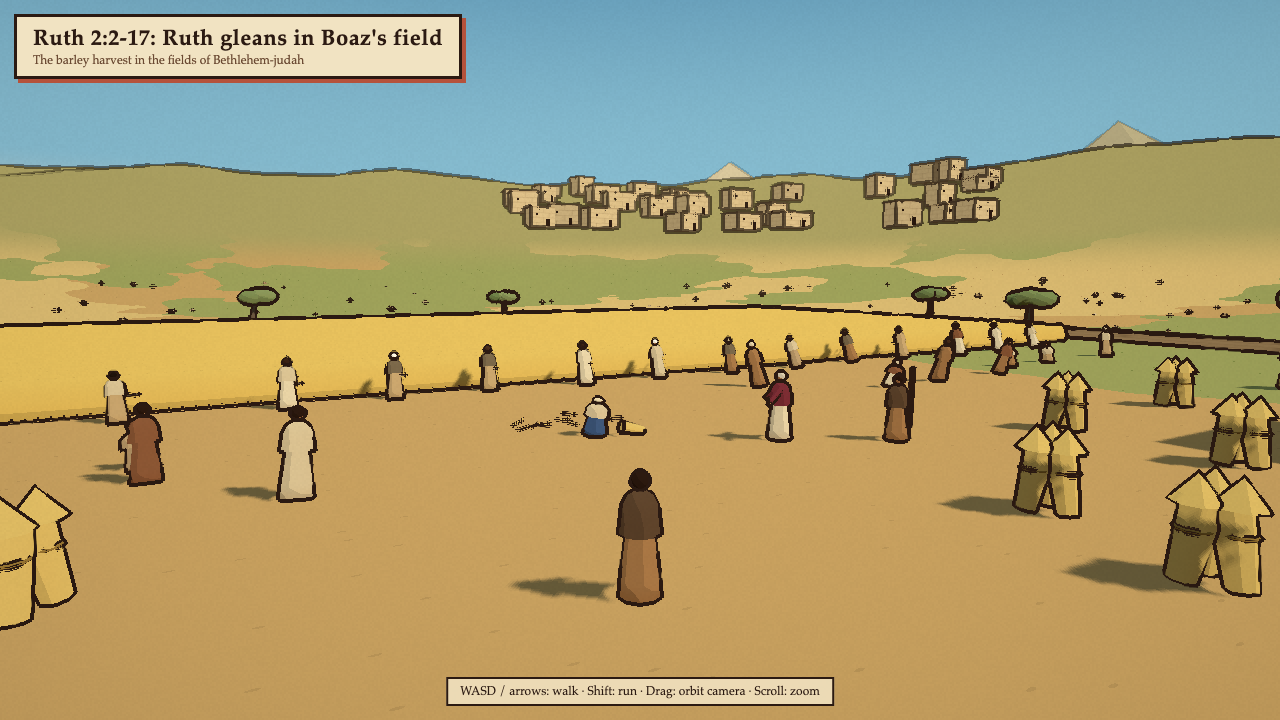
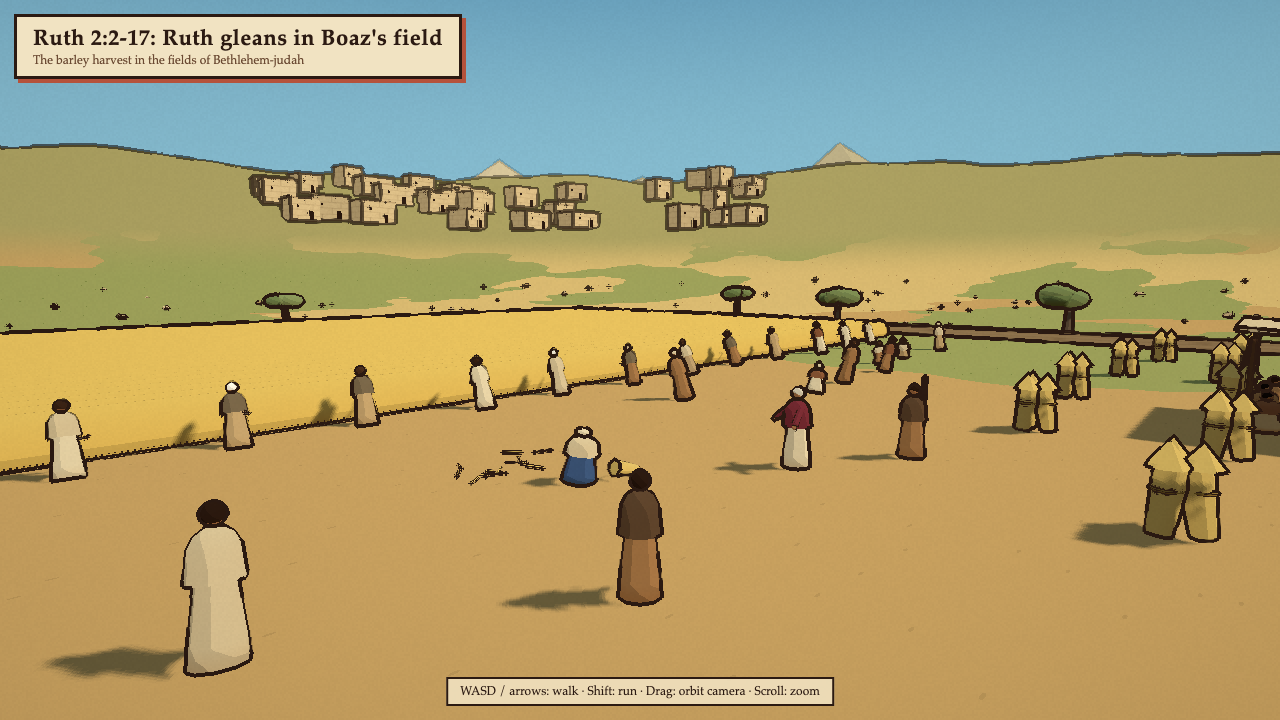
feat: polish toon scenes ot-25 to ot-30

Changed region(s): [[0.0, 0.1528, 1.0, 0.9472], [0.375, 0.7639, 0.5, 0.8556]]

diff --git a/styles/toon/scenes/ot-25.js b/styles/toon/scenes/ot-25.js
@@ -5,7 +5,8 @@ import { ISRAEL, NO_PLAZA, camels, campfires, figure, flames, longTents, merged,
 import { makeRng } from '../engine/util.js';
 
 const CAMP = [0, 0];
-const START = [-24, 41];
+const START = [-6, 47];
+const GIDEON = [-2.5, 42.6];
 
 const MIDIAN = {
   robes: ['#5a3a5a', '#3e2e4a', '#6b3a2a', '#2e3a4a', '#7a5a3a', '#4a2a2a', '#8a6a4a'],
@@ -50,9 +51,9 @@ export default {
 
   sun: {
     dir: [0.5, 0.7, -0.6],
-    color: '#8ea2e0',
-    intensity: 1.1,
-    hemi: { sky: '#3a4a86', ground: '#1e1a2a', intensity: 0.75 },
+    color: '#9eb2ee',
+    intensity: 1.3,
+    hemi: { sky: '#4c5ea6', ground: '#3a2e3a', intensity: 1.05 },
     shadowSize: 70,
   },
 
@@ -64,7 +65,7 @@ export default {
     undulation: 0.3,
     plaza: NO_PLAZA,
     colors: {
-      sand: '#4a4660', dirt: '#3e3a52', grass: '#32424e', grassDark: '#26343e', plaza: '#4a4660', plazaLine: '#4a4660',
+      sand: '#5a5470', dirt: '#4a4460', grass: '#3a4a58', grassDark: '#2e3c48', plaza: '#5a5470', plazaLine: '#5a5470',
       scorch: '#1a1620', scorchEdge: '#2a2430', hill: '#2c3a4c',
     },
   },
@@ -84,7 +85,7 @@ export default {
     const tentList = [], longList = [], camelList = [], fires = [];
     for (let i = 0; i < 9; i++) {
       const a = (i / 9) * Math.PI * 2 + 0.3, r = 14 + (i % 3) * 7;
-      fires.push({ pos: [Math.sin(a) * r, Math.cos(a) * r], size: 0.9, light: i % 2 === 0 ? 14 : 0, lightDistance: 16 });
+      fires.push({ pos: [Math.sin(a) * r, Math.cos(a) * r], size: 1.1, light: 20, lightDistance: 24 });
     }
     for (let i = 0; i < 70; i++) {
       const a = rng() * Math.PI * 2, r = 6 + Math.sqrt(rng()) * 32;
@@ -149,9 +150,9 @@ export default {
     }
 
     // Gideon at the front of his company, crying "The sword of the Lord, and of Gideon."
-    figure(ctx, { pos: [1.5, 46.5], facing: CAMP, pose: 'raise', colors: { robe: '#8c5a3c', mantle: '#5e4632', skin: '#a87650', hair: '#2b1a12', sash: '#c8912e', arms: [0.5, 2.7] } });
-    flames(ctx, [{ pos: [1.5 + 0.55, ctx.terrainHeight(1.5, 46.5) + 3.0, 46.5 - 0.2], size: 0.7 }], { glowSize: 3.5 });
-    pointLight(ctx, [1.5, 4, 46], { color: '#ffaa55', intensity: 14, distance: 14 });
+    figure(ctx, { pos: GIDEON, facing: CAMP, scale: 1.05, pose: 'raise', colors: { robe: '#8c5a3c', mantle: '#5e4632', skin: '#a87650', hair: '#2b1a12', sash: '#c8912e', arms: [0.5, 2.7] } });
+    flames(ctx, [{ pos: [GIDEON[0] + 0.55, ctx.terrainHeight(...GIDEON) + 3.1, GIDEON[1] - 0.2], size: 0.7 }], { glowSize: 3.5 });
+    pointLight(ctx, [GIDEON[0] + 0.5, 3.6, GIDEON[1] + 0.6], { color: '#ffaa55', intensity: 18, distance: 14 });
   },
 
   crowd: {
@@ -168,7 +169,7 @@ export default {
 
   player: {
     start: START,
-    lookAt: [6, -4],
+    lookAt: [4, 0],
     colors: { robe: '#7a6a52', mantle: '#3a2a22', skin: '#a8724a', hair: '#2b1a12', sash: '#c8912e' },
   },
 };

diff --git a/styles/toon/scenes/ot-30.js b/styles/toon/scenes/ot-30.js
@@ -175,7 +175,7 @@ export default {
     // Solomon on the brasen scaffold, spreading forth his hands toward heaven.
     boxes(ctx, [{ size: [2.8, 1.5, 2.8], pos: SCAFFOLD, y: y0, color: C.bronze }]);
     const solY = y0 + 1.5;
-    const sol = figure(ctx, { pos: SCAFFOLD, y: solY, yaw: Math.PI, scale: 1.1, pose: 'raise', clear: 0,
+    const sol = figure(ctx, { pos: SCAFFOLD, y: solY, yaw: Math.PI, scale: 1.35, pose: 'raise', clear: 0,
       colors: { robe: '#5e2a6a', mantle: '#e0b040', skin: '#b5825a', hair: '#3a2418', sash: '#e0b040', arms: [0.75, 2.5] } });
     const crown = new THREE.Mesh(new THREE.CylinderGeometry(0.13, 0.14, 0.12, 10, 1, true), ctx.kit.toon(C.gold, { side: THREE.DoubleSide }));
     crown.position.y = 1.72;
@@ -200,8 +200,8 @@ export default {
 
     // The cloud of glory filling the house and billowing out of the porch.
     puffs(ctx, { center: [0, y0 + TERRACE + 1.2, PORCH_Z + 0.8], radius: [2.6, 0.8, 0.8], count: 9, size: [0.6, 1.2], color: '#fffaf0', emissive: '#d8ccb0', drift: 0.18, seed: 21 });
-    puffs(ctx, { center: [0, y0 + TERRACE + 19, -36], radius: [8, 2.5, 16], count: 30, size: [3, 5.5], color: '#fffaf0', emissive: '#d8ccb0', drift: 0.12, seed: 22 });
-    puffs(ctx, { center: [0, y0 + TERRACE + 24, PORCH_Z - 4], radius: [6, 2.5, 3], count: 10, size: [2.4, 4], color: '#fffaf0', emissive: '#d8ccb0', drift: 0.15, seed: 23 });
+    puffs(ctx, { center: [0, y0 + TERRACE + 17.5, -36], radius: [8, 2.5, 16], count: 30, size: [3, 5.5], color: '#fffaf0', emissive: '#d8ccb0', drift: 0.12, seed: 22 });
+    puffs(ctx, { center: [0, y0 + TERRACE + 18, PORCH_Z - 4], radius: [6, 2, 3], count: 10, size: [2.4, 4], color: '#fffaf0', emissive: '#d8ccb0', drift: 0.15, seed: 23 });
     glowSprite(ctx, { pos: [0, y0 + TERRACE + 4.5, PORCH_Z + 0.5], size: 12, color: '#fff2c8', opacity: 0.7, pulse: 0.05 });
     glowSprite(ctx, { pos: [0, y0 + 20, -32], size: 60, color: '#fff2c8', opacity: 0.4, pulse: 0.03 });
     shaft(ctx, { from: [0, 180, -40], to: [0, y0 + 16, -34], width: [10, 16], color: '#fff2c9', opacity: 0.12 });
@@ -232,6 +232,7 @@ export default {
   player: {
     start: [0, 27],
     lookAt: [0, -10],
+    fov: 58,
     colors: { robe: '#4f7f80', mantle: '#8c5a3c', skin: '#a8724a', hair: '#2b1a12', sash: '#c8912e' },
   },
 };

diff --git a/styles/toon/scenes/ot-28.js b/styles/toon/scenes/ot-28.js
@@ -7,8 +7,8 @@ import { makeRng } from '../engine/util.js';
 const TENT = { x: [-5.5, 5.5], z: [-15, 4], h: 5.6 };
 const VEIL_Z = -9.5;
 const LAMP = [-3.3, -4.5];
-const SAMUEL = [-0.4, -1.8];
-const PRESENCE = [1.6, -3.4];
+const SAMUEL = [-2.3, -1.2];
+const PRESENCE = [0.6, -4.0];
 const ELI = [12, -5];
 
 const C = {
@@ -163,12 +163,12 @@ export default {
 
     // Samuel lying on his mat, and the Lord standing near, a still light with no form to see.
     boxes(ctx, [{ size: [1.0, 0.12, 2.2], pos: [SAMUEL[0], SAMUEL[1] - 0.4], y: y0 + 0.22, color: '#8c5a3c', collide: false, exclude: false }]);
-    figure(ctx, { pos: SAMUEL, y: y0 + 0.3, yaw: Math.PI, pose: 'lie', roll: 0.35, scale: 0.82, colors: { robe: '#e6d8b8', mantle: '#d9c7a3', skin: '#c08f66', hair: '#3a2418', sash: '#4f7f80' }, clear: 1.4 });
+    figure(ctx, { pos: SAMUEL, y: y0 + 0.3, yaw: Math.PI, pose: 'lie', roll: 0.35, scale: 0.95, colors: { robe: '#e6d8b8', mantle: '#d9c7a3', skin: '#c08f66', hair: '#3a2418', sash: '#4f7f80' }, clear: 1.4 });
     const py = y0 + 0.2;
     shaft(ctx, { from: [PRESENCE[0], py + H + 0.4, PRESENCE[1]], to: [PRESENCE[0], py, PRESENCE[1]], width: [0.5, 0.9], color: '#fff4dc', opacity: 0.18 });
     glowSprite(ctx, { pos: [PRESENCE[0], py + 1.3, PRESENCE[1]], size: 3.4, color: '#fff4dc', opacity: 0.9, pulse: 0.05 });
     glowSprite(ctx, { pos: [PRESENCE[0], py + 1.2, PRESENCE[1]], size: 7, color: '#d8e4ff', opacity: 0.35, pulse: 0.03 });
-    pointLight(ctx, [PRESENCE[0], py + 1.8, PRESENCE[1]], { color: '#e8eeff', intensity: 10, distance: 9 });
+    pointLight(ctx, [PRESENCE[0], py + 1.8, PRESENCE[1]], { color: '#e8eeff', intensity: 16, distance: 10 });
     ctx.exclude({ kind: 'circle', x: PRESENCE[0], z: PRESENCE[1], r: 1 });
 
     // The altar of burnt offering, its fire banked low, and the laver.
@@ -212,8 +212,8 @@ export default {
   },
 
   player: {
-    start: [0.9, 7.5],
-    lookAt: [0.4, -3],
+    start: [0.4, 2.0],
+    lookAt: [-0.8, -5],
     colors: { robe: '#6f8a6a', mantle: '#4a3a30', skin: '#a8724a', hair: '#2b1a12', sash: '#c8912e' },
   },
 };

diff --git a/styles/toon/scenes/ot-26.js b/styles/toon/scenes/ot-26.js
@@ -1,7 +1,7 @@
 // Judges 16: Samson stands between the two middle pillars of the house of Dagon in Gaza and bows himself.
 // x is east, z is south. The temple hall opens south onto a paved court. Samson faces the court.
 import * as THREE from 'three';
-import { NO_PLAZA, PHILISTINES, boxes, figure, merged, people, puffs, scatter, toonStyle } from './lib/ot-25-kit.js';
+import { NO_PLAZA, PHILISTINES, boxes, figure, merged, people, pointLight, puffs, scatter, toonStyle } from './lib/ot-25-kit.js';
 import { makeRng } from '../engine/util.js';
 
 const SAMSON = [0, -7.6];
@@ -172,8 +172,9 @@ export default {
     boxes(ctx, Array.from({ length: 10 }, (_, i) => ({ size: [0.4 + rng() * 0.5, 0.3 + rng() * 0.3, 0.4 + rng() * 0.4], pos: [(rng() - 0.5) * 7, SAMSON[1] + (rng() - 0.5) * 4], y: top, rot: rng() * 3, color: C.stoneDark, collide: false, exclude: false })), { stone: true });
 
     // Samson between the pillars, arms out to them, bowing with all his might.
-    figure(ctx, { pos: SAMSON, y: top, facing: [0, 30], scale: 1.12, pose: 'spread', lean: 0.18,
+    figure(ctx, { pos: SAMSON, y: top, facing: [0, 30], scale: 1.3, pose: 'spread', lean: 0.18,
       colors: { robe: '#7a6a52', mantle: '#5e4a36', skin: '#a8724a', hair: '#1f140e', sash: '#4a3a2a', arms: [1.32, 0.12] }, clear: 1.6 });
+    pointLight(ctx, [0, top + 3.2, -4.6], { color: '#fff0d0', intensity: 15, distance: 12 });
     figure(ctx, { pos: [3.4, -5.6], y: top, facing: SAMSON, scale: 0.7, colors: { robe: '#c8a97a', mantle: '#8c5a3c', skin: '#b5825a', hair: '#3a2418' }, clear: 0.8 });
 
     // Lords of the Philistines seated along the hall.
@@ -210,8 +211,8 @@ export default {
   },
 
   player: {
-    start: [0, 12],
-    lookAt: [0, -6],
+    start: [0, 7],
+    lookAt: [0, -7.6],
     colors: { robe: '#4f7f80', mantle: '#5e4632', skin: '#a8724a', hair: '#2b1a12', sash: '#c8912e' },
   },
 };

diff --git a/styles/toon/scenes/ot-27.js b/styles/toon/scenes/ot-27.js
@@ -124,7 +124,7 @@ export default {
     people(ctx, maidens, MAIDENS, { seed: 9 });
 
     // Ruth gathering ears among the sheaves, a bundle of gleanings beside her.
-    figure(ctx, { pos: RUTH, facing: BOAZ, pose: 'kneel', lean: 0.12, scale: 1.0, colors: { robe: '#3e5a8a', mantle: '#d9c7a3', skin: '#b5825a', hair: '#e6d8b8', sash: '#b5523b' }, clear: 1.4 });
+    figure(ctx, { pos: RUTH, facing: BOAZ, pose: 'kneel', lean: 0.12, scale: 1.1, colors: { robe: '#3e5a8a', mantle: '#d9c7a3', skin: '#b5825a', hair: '#e6d8b8', sash: '#b5523b' }, clear: 1.4 });
     const ry = ctx.terrainHeight(RUTH[0] + 0.9, RUTH[1] + 0.4);
     merged(ctx, [new THREE.CylinderGeometry(0.18, 0.12, 0.7, 7).rotateZ(1.3).translate(RUTH[0] + 0.9, ry + 0.16, RUTH[1] + 0.5)], '#e2c370');
     const gleanings = [];
@@ -173,8 +173,8 @@ export default {
 
 
   player: {
-    start: [-5, 12],
-    lookAt: [1, 1],
+    start: [-4.5, 7.5],
+    lookAt: [1.5, 2],
     colors: { robe: '#a87b4f', mantle: '#5e4632', skin: '#a8724a', hair: '#2b1a12', sash: '#c8912e' },
   },
 };

diff --git a/styles/toon/scenes/ot-29.js b/styles/toon/scenes/ot-29.js
@@ -146,8 +146,8 @@ export default {
   },
 
   player: {
-    start: [3.4, 5],
-    lookAt: [0, -12],
+    start: [4.5, -1.5],
+    lookAt: [-1, -12],
     colors: { robe: '#7a6a52', mantle: '#2f4f6e', skin: '#a8724a', hair: '#2b1a12', sash: '#c8912e' },
   },
 };
